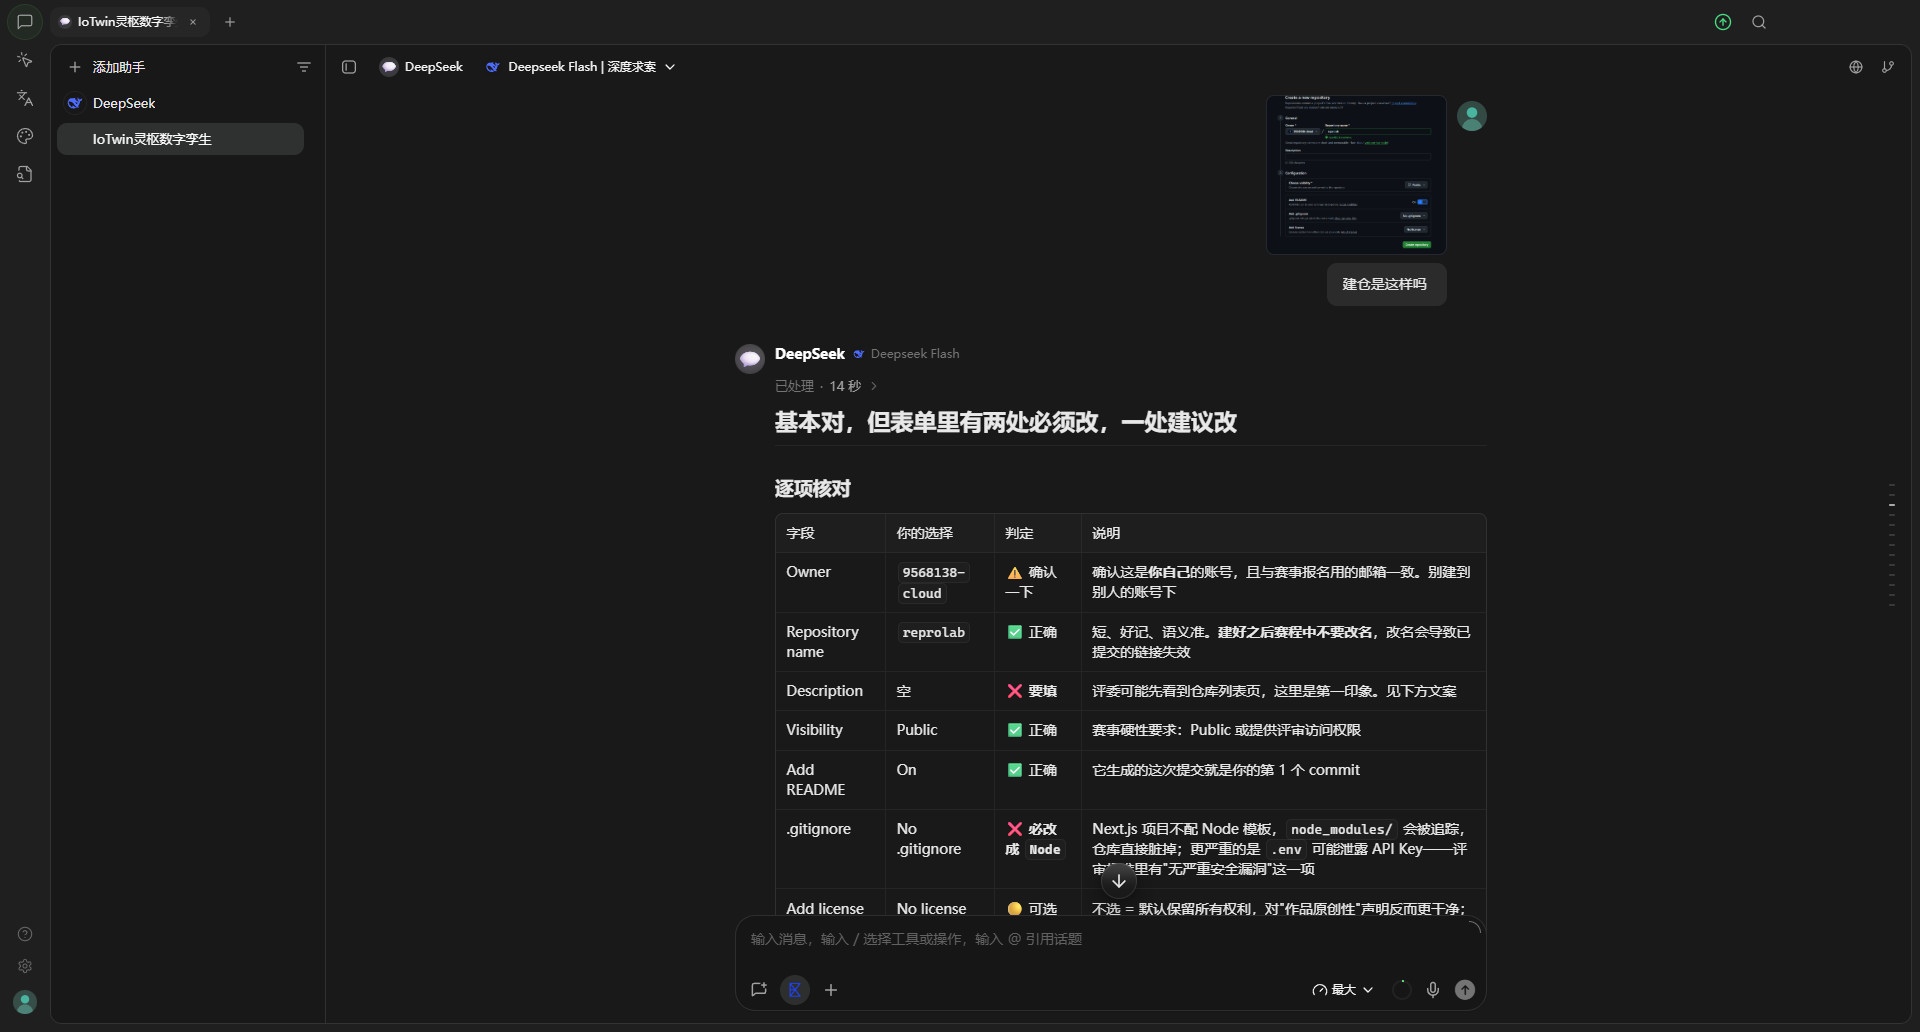
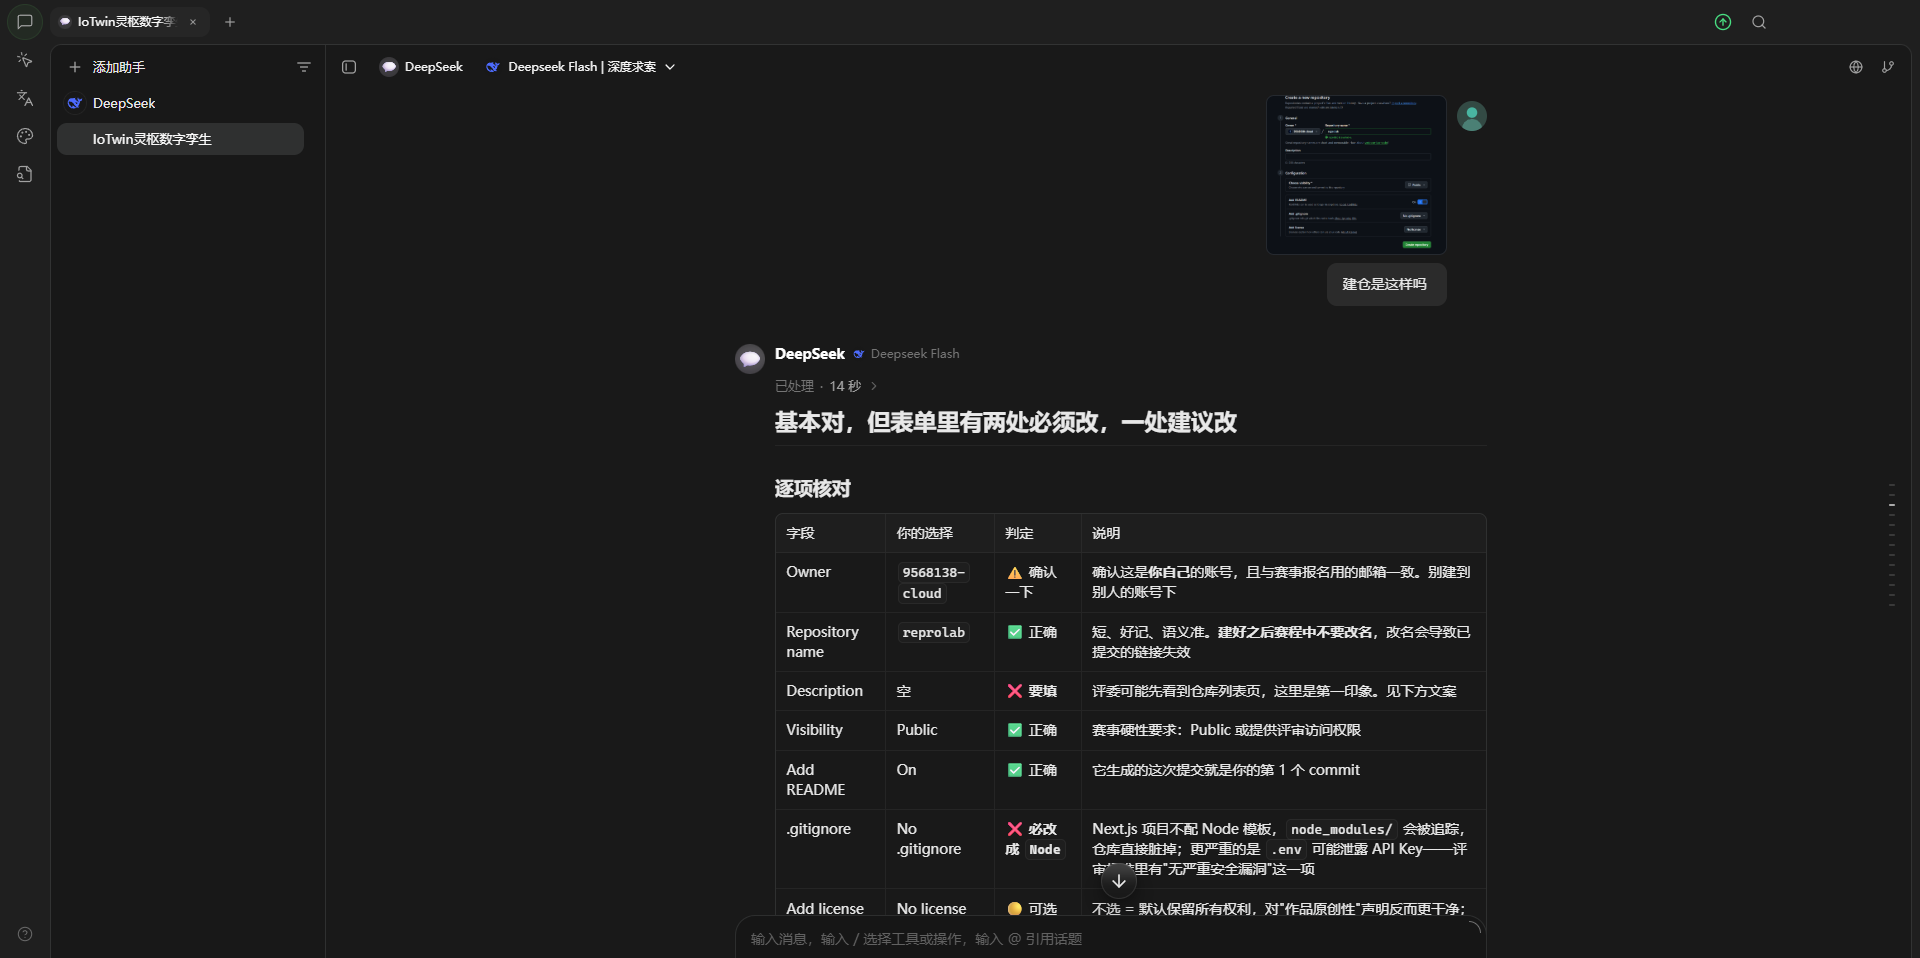
docs(prompts): 四张 CherryStudio 截图裁掉系统鼠标指针所在的底部（正文零改动），并说明裁切范围

diff --git a/prompts/README.md b/prompts/README.md
@@ -167,12 +167,14 @@
 
 ## 真实会话截图（CherryStudio，2026-09-27）
 
-上面 4 个 iter 是开发期的 Prompt；选方向、定主题、建仓这一段发生在 CherryStudio（DeepSeek Flash），截图原样归档在 `prompts/screenshots/`，时间戳与对话原文一致（对话全文另存，未改写）。
+上面 4 个 iter 是开发期的 Prompt；选方向、定主题、建仓这一段发生在 CherryStudio（DeepSeek Flash），截图归档在 `prompts/screenshots/`，时间戳与对话原文一致（对话全文另存，未改写）。
+
+> 四张图都**只做了底部裁切**（截掉系统鼠标指针所在的最后一段，避免画面里出现光标），**正文、表格、代码块一个像素都没改**。02 那张保留了作战手册的开头（赛前必做动作），后半段的「四条铁律」见下面的对话记录。
 
 | 图 | 时间 | 这一轮在做什么 | 截图里能看到什么 |
 | :-- | :-- | :-- | :-- |
 | [01-iter01-选题与方向](screenshots/01-iter01-选题与方向.png) | 09-27 20:34 | 给 AI 交代身份（物联网工程、传智杯、目标国奖）+ 竞赛要求与选题方向两张图，要求给主题 | 用户消息原文 + 7 张附图的缩略图；AI 第一版给出 IoTwin 方向 |
-| [02-iter02-定主题与作战手册](screenshots/02-iter02-定主题与作战手册.png) | 09-27 20:44 | 「主题定好了，现在你将指导我利用 trae 完成这次比赛」 | AI 输出赛季作战手册：赛前必做动作、四条铁律 |
+| [02-iter02-定主题与作战手册](screenshots/02-iter02-定主题与作战手册.png) | 09-27 20:44 | 「主题定好了，现在你将指导我利用 trae 完成这次比赛」 | AI 输出赛季作战手册的开头：前提假设、时间坐标、赛前 3 个必做动作（建仓 / 组别 / Trae 版本） |
 | [03-iter03-建仓核对](screenshots/03-iter03-建仓核对.png) | 09-27 21:10 | 「建仓是这样吗」+ 自己截的 GitHub 建仓表单 | AI 用表格逐项核对表单，指出必改项（公开仓库、描述、初始化选项） |
 | [04-iter04-建仓后三件事](screenshots/04-iter04-建仓后三件事.png) | 09-27 21:13 | 追问「点 Create repository 之后，立刻做这三件事 具体怎么做」 | AI 给出 clone / 提交身份 / README 的具体命令（BASH + MARKDOWN 代码块） |
 
